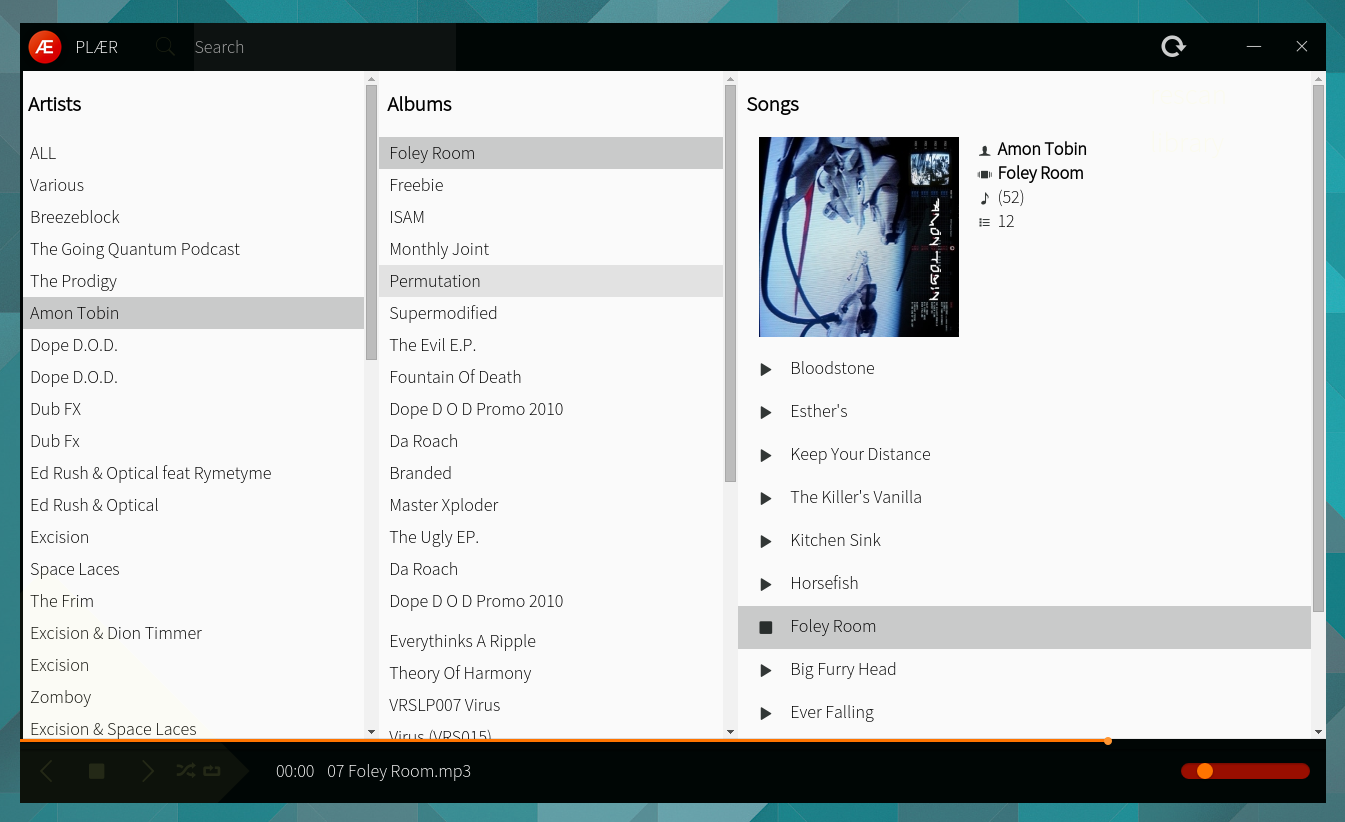
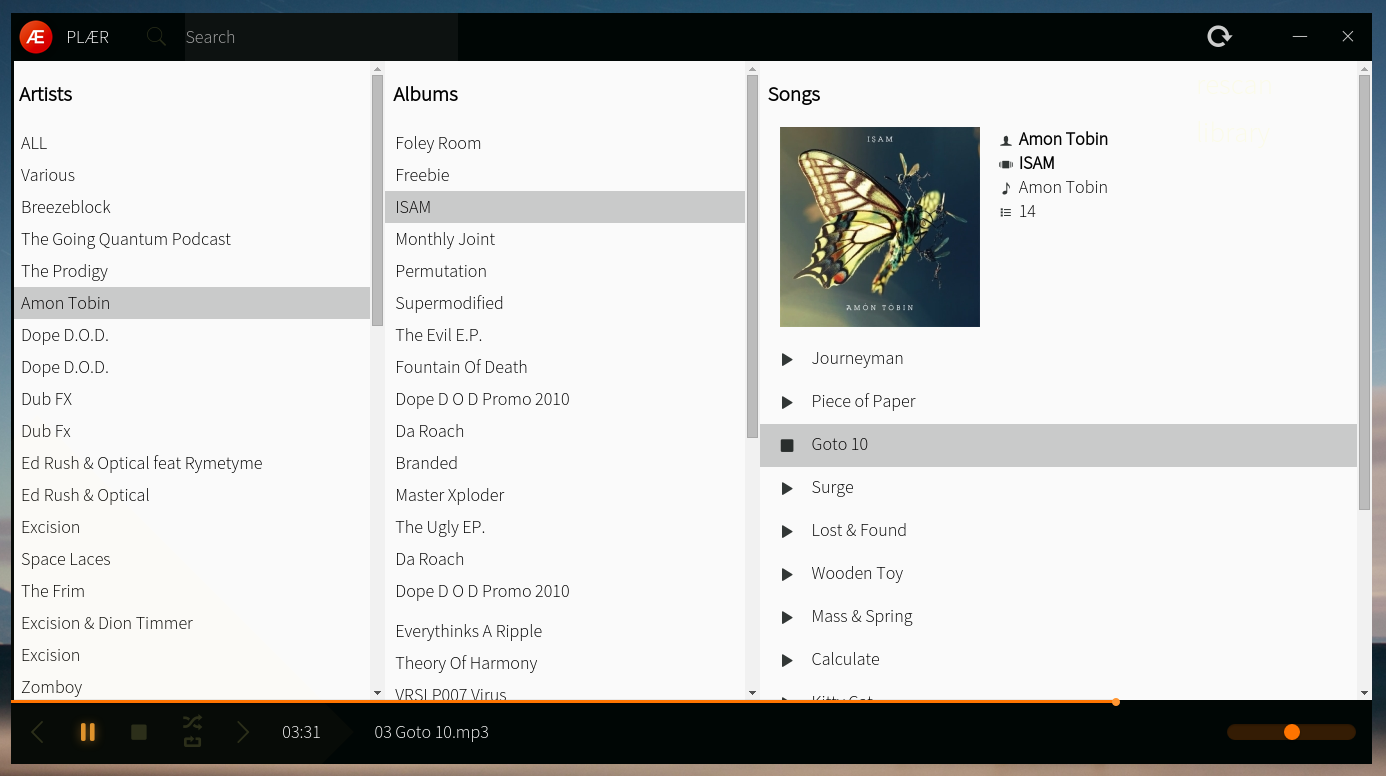
updated readme, screenshot

Changed region(s): [[0.0, 0.0, 1.0, 1.0], [0.1249, 0.7423, 0.1561, 0.7732]]

diff --git a/README.md b/README.md
@@ -1,24 +1,37 @@
 # PLAER
-PLAER is a simple mp3 player that scan directory it is placed in to (**/some/dir/plaer** will scan **/some/dir**) and lets you browse and play founded mp3 files.
+PLAER is a simple mp3 player that scans directory it is placed in (**/some/dir/plaer** will scan **/some/dir**) and lets you browse and play founded mp3 files.
 ![Native-like Framework](screenshot.png)
-
-### Features
+Nothing more and nothing less.
 Basic features that should have every audio player.
-- Play/Stop buddon
-- Seek through playing audio
-- View Artists, their Albums and songs
+
+- Play/pause/stop, next and previous
+- loop, shuffle
+- seek through playing song
+- view artists, their albums and songs
+- automatically try to fetch and save album art via [iTunes search API](http://www.apple.com/itunes/affiliates/resources/documentation/itunes-store-web-service-search-api.html)
+- notification of currently playing song
 
 Nothing more and nothing less.
 
-Build on nw.js (on **v0.12.3**, linux 64bit tested and working), so it is just Java Script and HTML + CSS.
+Build on nw.js (on v0.12.3, linux 64bit tested and working), so it is just Java Script and HTML + CSS.
 
 ## Installation
-Installation is not done yet, and for now, you need to:
+For running Plaer you need to have nodejs and npm installed. How to do that see [nodejs.org](https://nodejs.org/en/).
+
+When you have nodejs and npm installed and working:
+
 - ```git clone git@github.com:vincurekf/plaer.git``` where you want the plaer to be (you can move it later though)
-- Download [nw.js](https://github.com/nwjs/nw.js#downloads) and unpack it to the root folder
-- On linux make nw executable (run from root folder) ``` sudo chmod +x ./nw```
+- install node dependencies, run ```npm install``` in root directory
+- Download [nw.js](https://github.com/nwjs/nw.js#downloads) and unpack it to the root directory
+- On linux make nw executable (run as sudo) ``` sudo chmod +x ./nw```
 - Run nw (or nw.exe on windows)
 - Enjoy!
 
+## Known flaws
+When loading large files (~200mb) the app may become unresponsive or laggy.
+
+## Used libraries
+(TODO)
+
 ## Disclaimer
-This app is not some proffesional solution, it works, can be easily changed and/or extended.
+This app is not some proffesional solution, it works, can be easily changed and/or extended. It's just some thing, I use it at work to play files from USB stick.
